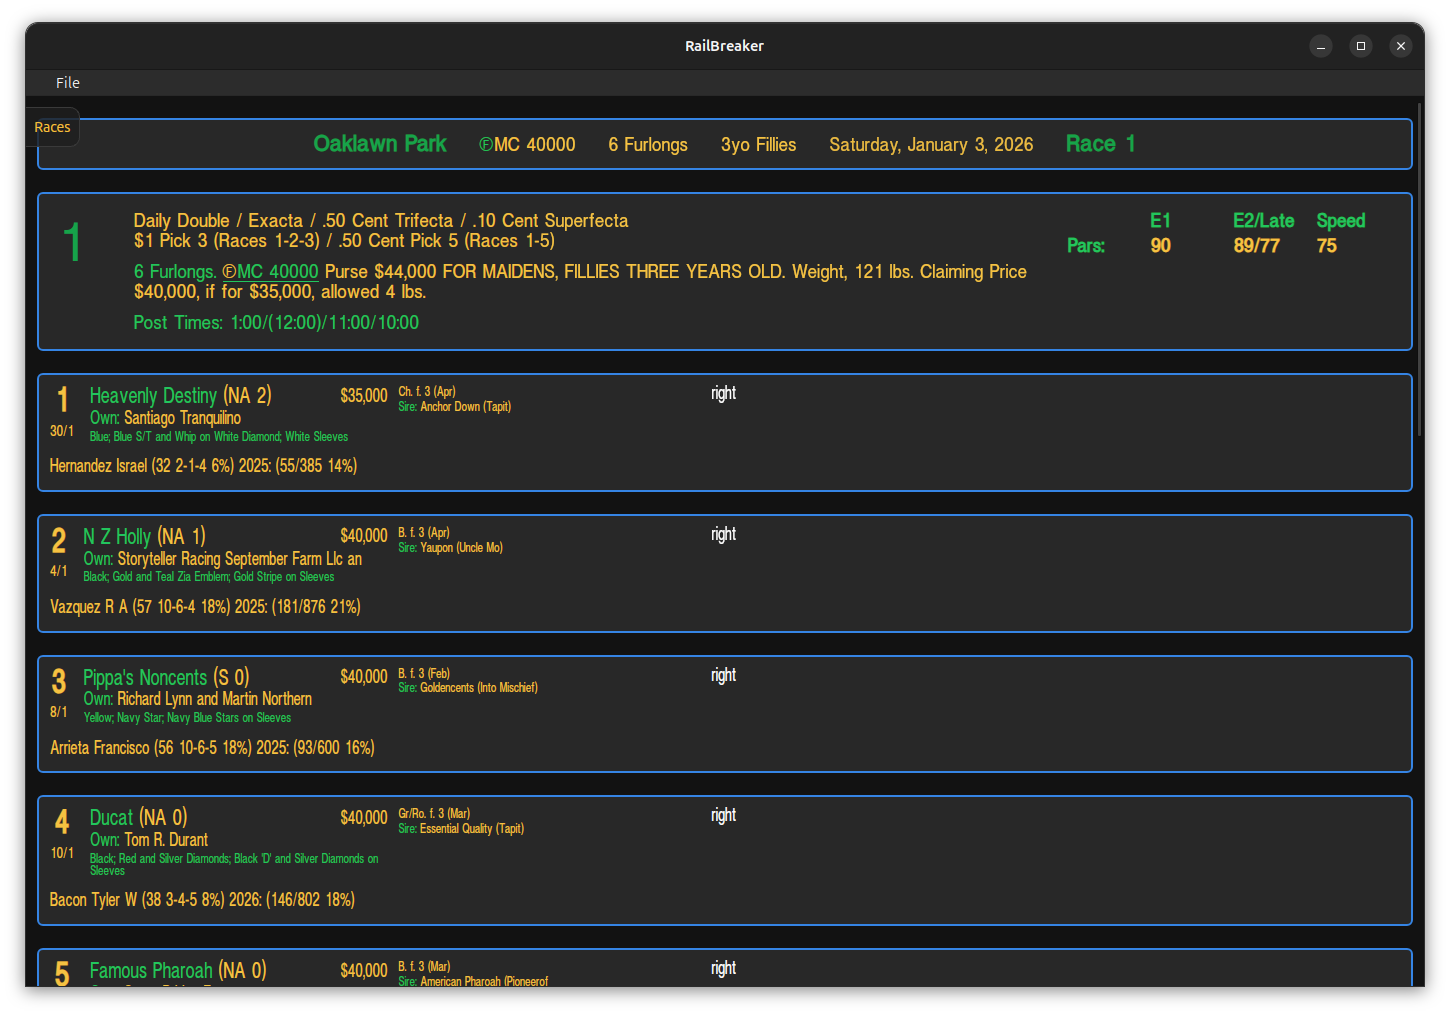
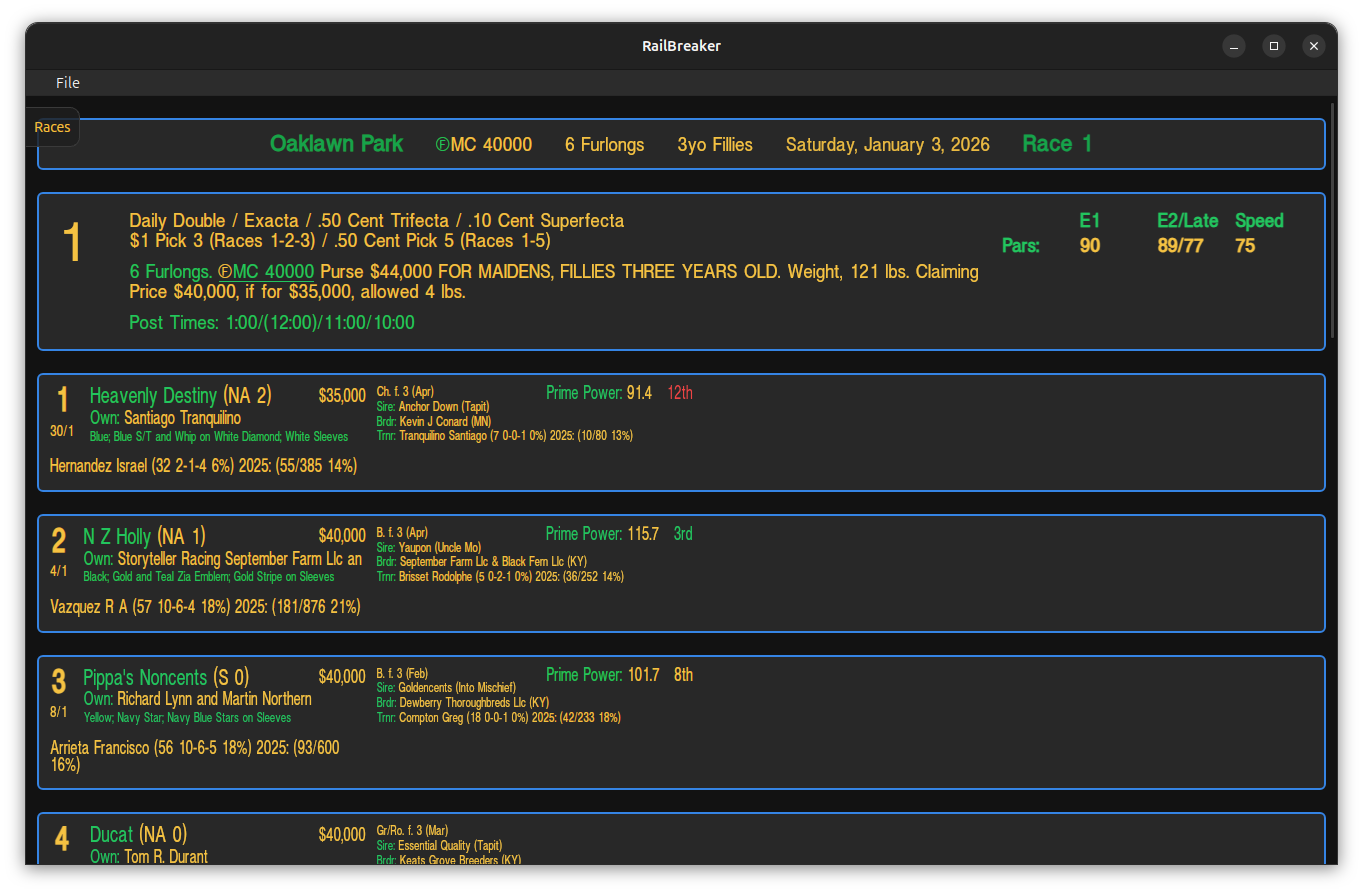
Added prime power rating where the bottom third is red, middle third is yellow, and the top third is green.

Changed region(s): [[0.0, 0.0605, 0.9861, 0.9978], [0.0308, 0.0, 0.9861, 0.0605], [0.493, 0.6349, 0.5238, 0.6954]]

diff --git a/src/App.vue b/src/App.vue
@@ -31,6 +31,8 @@ const racecard = ref<Racecard | null>(null);
 
 const raceNumber = ref(1);
 
+const primePowerComparisons = ref<Array<[number | string, string, string]>>([]);
+
 const currentRacecardIndex = ref(0);
 
 const isRacecardMenuOpen = ref(false);
@@ -50,9 +52,7 @@ function handleSelectedRace(value: number) {
 }
 
 function handleDeleteRacecard(index: number) {
-    // delete the entry
     racecards.deleteRacecardAt(index);
-    // if no racecards, clear selection
     if (racecards.racecardEntries.length === 0) {
         currentRacecardIndex.value = 0;
         racecard.value = null;
@@ -60,13 +60,69 @@ function handleDeleteRacecard(index: number) {
         return;
     }
 
-    // prefer previous entry if exists, otherwise clamp to 0
     const newIndex = index - 1 >= 0 ? index - 1 : 0;
     currentRacecardIndex.value = Math.min(newIndex, racecards.racecardEntries.length - 1);
 }
 
+function ordinal(n: number): string {
+    const s = ["th", "st", "nd", "rd"], v = n % 100;
+    return n + (s[(v - 20) % 10] || s[v] || s[0]);
+}
+
+function computePrimePowerComparisons() {
+    const result: Array<[number | string, string, string]> = [];
+    if (!racecard.value) {
+        primePowerComparisons.value = result;
+        return
+    }
+    const raceIdx = raceNumber.value - 1;
+    const race = racecard.value.races?.[raceIdx];
+    if (!race || !Array.isArray(race.horses)) {
+        primePowerComparisons.value = result;
+        return
+    }
+
+    const entries: { post: number | string; rating: number }[] = [];
+    race.horses.forEach((h: any, idx: number) => {
+        const r = h.bris_prime_power_rating;
+        if (r === null || r === undefined) return;
+        if (Number(r) === 0) return;
+        const post = h.post_position ?? h.program_number ?? idx + 1;
+        entries.push({ post, rating: Number(r) });
+    });
+
+    if (entries.length === 0) {
+        primePowerComparisons.value = result;
+    }
+
+    entries.sort((a, b) => b.rating - a.rating);
+
+    const N = entries.length;
+    const tier = Math.ceil(N / 3);
+
+    entries.forEach((e, i) => {
+        const position = i + 1; 
+        let color = "var(--accent-yellow)";
+        if (position <= tier) {
+            color = "var(--accent-green)";
+        } else if (position > 2 * tier) {
+            color = "var(--accent-red)";
+        }
+
+        const tuple: [number | string, string, string] = [e.post, ordinal(position), color];
+        result.push(tuple);
+    });
+
+    primePowerComparisons.value = result;
+}
+
 watch(racecard, (rc) => {
     isRacecardMenuOpen.value = false;
+});
+
+watch([racecard, raceNumber], () => {
+    computePrimePowerComparisons();
+    console.log("Prime Power Comparisons:", primePowerComparisons.value);
 });
 
 watch(currentRacecardIndex, (idx, oldIdx) => {
@@ -86,7 +142,6 @@ watch(currentRacecardIndex, (idx, oldIdx) => {
 
 watch(raceNumber, async (newVal, oldVal) => {
     await nextTick();
-    // scroll the race container to the top of the viewport when the race changes
     raceContainerRef.value?.scrollIntoView({ behavior: "smooth", block: "start" });
 });
 
@@ -199,6 +254,7 @@ onUnmounted(() => {
                 v-for="(horse, idx) in (racecard.races[raceNumber - 1]?.horses || [])"
                 :key="horse.program_number || horse.post_position || idx"
                 :horse="horse"
+                :primePowerComparisons="primePowerComparisons"
             ></Horse>
         </div>
         <MessageDialog v-model="showErrorDialog" :message="errorMessage" title="Error" />

diff --git a/src/components/Horse.vue b/src/components/Horse.vue
@@ -3,7 +3,7 @@ import type { Horse } from "../models/racecard";
 import Panel from "./Panel.vue";
 import Transformers from "../utils/transformers";
 
-const props = defineProps<{ horse: Horse }>();
+const props = defineProps<{ horse: Horse, primePowerComparisons: Array<[number | string, string, string]> }>();
 </script>
 
 <template>
@@ -93,9 +93,17 @@ const props = defineProps<{ horse: Horse }>();
                     </div>
                     </div>
                     <div class="horse-header-center-right">
-                        <div class="prime-power color-accent-green">Prime Power: 
-                            <span class="color-accent-yellow">{{ Transformers.formatOneDecimal(props.horse.bris_prime_power_rating) }}</span>
-                        </div>
+                        <div v-if="props.horse.bris_prime_power_rating !== null" class="prime-power color-accent-green">Prime Power: 
+                                <span class="color-accent-yellow">{{ Transformers.formatOneDecimal(props.horse.bris_prime_power_rating) }}</span>
+                                &nbsp;
+                                <span v-if="props.primePowerComparisons.find(entry => entry[0] === props.horse.post_position)">
+                                    <span :style="{ color: props.primePowerComparisons.find(entry => entry[0] === props.horse.post_position)?.[2] ?? 'inherit' }">
+                                        {{
+                                            props.primePowerComparisons.find(entry => entry[0] === props.horse.post_position)?.[1] ?? ''
+                                        }}
+                                    </span>
+                                </span>
+                            </div>
                     </div>
                 </div>
 

diff --git a/README.md b/README.md
@@ -10,6 +10,7 @@ Please remember that the main purpose of the app is to be used while betting fro
 - Load a previously unzipped racecard file.
 - Load multiple racecards. (Racecard selection is changed in the sliding-left menu.)
 - Partial display of racecard info. (Where I'm at now.)
+- App is responsive. It may need tweaking when I complete the racecard. I'll probably set a minimum width for the app so the display stays legible.
 
 #### Things to do:
 
